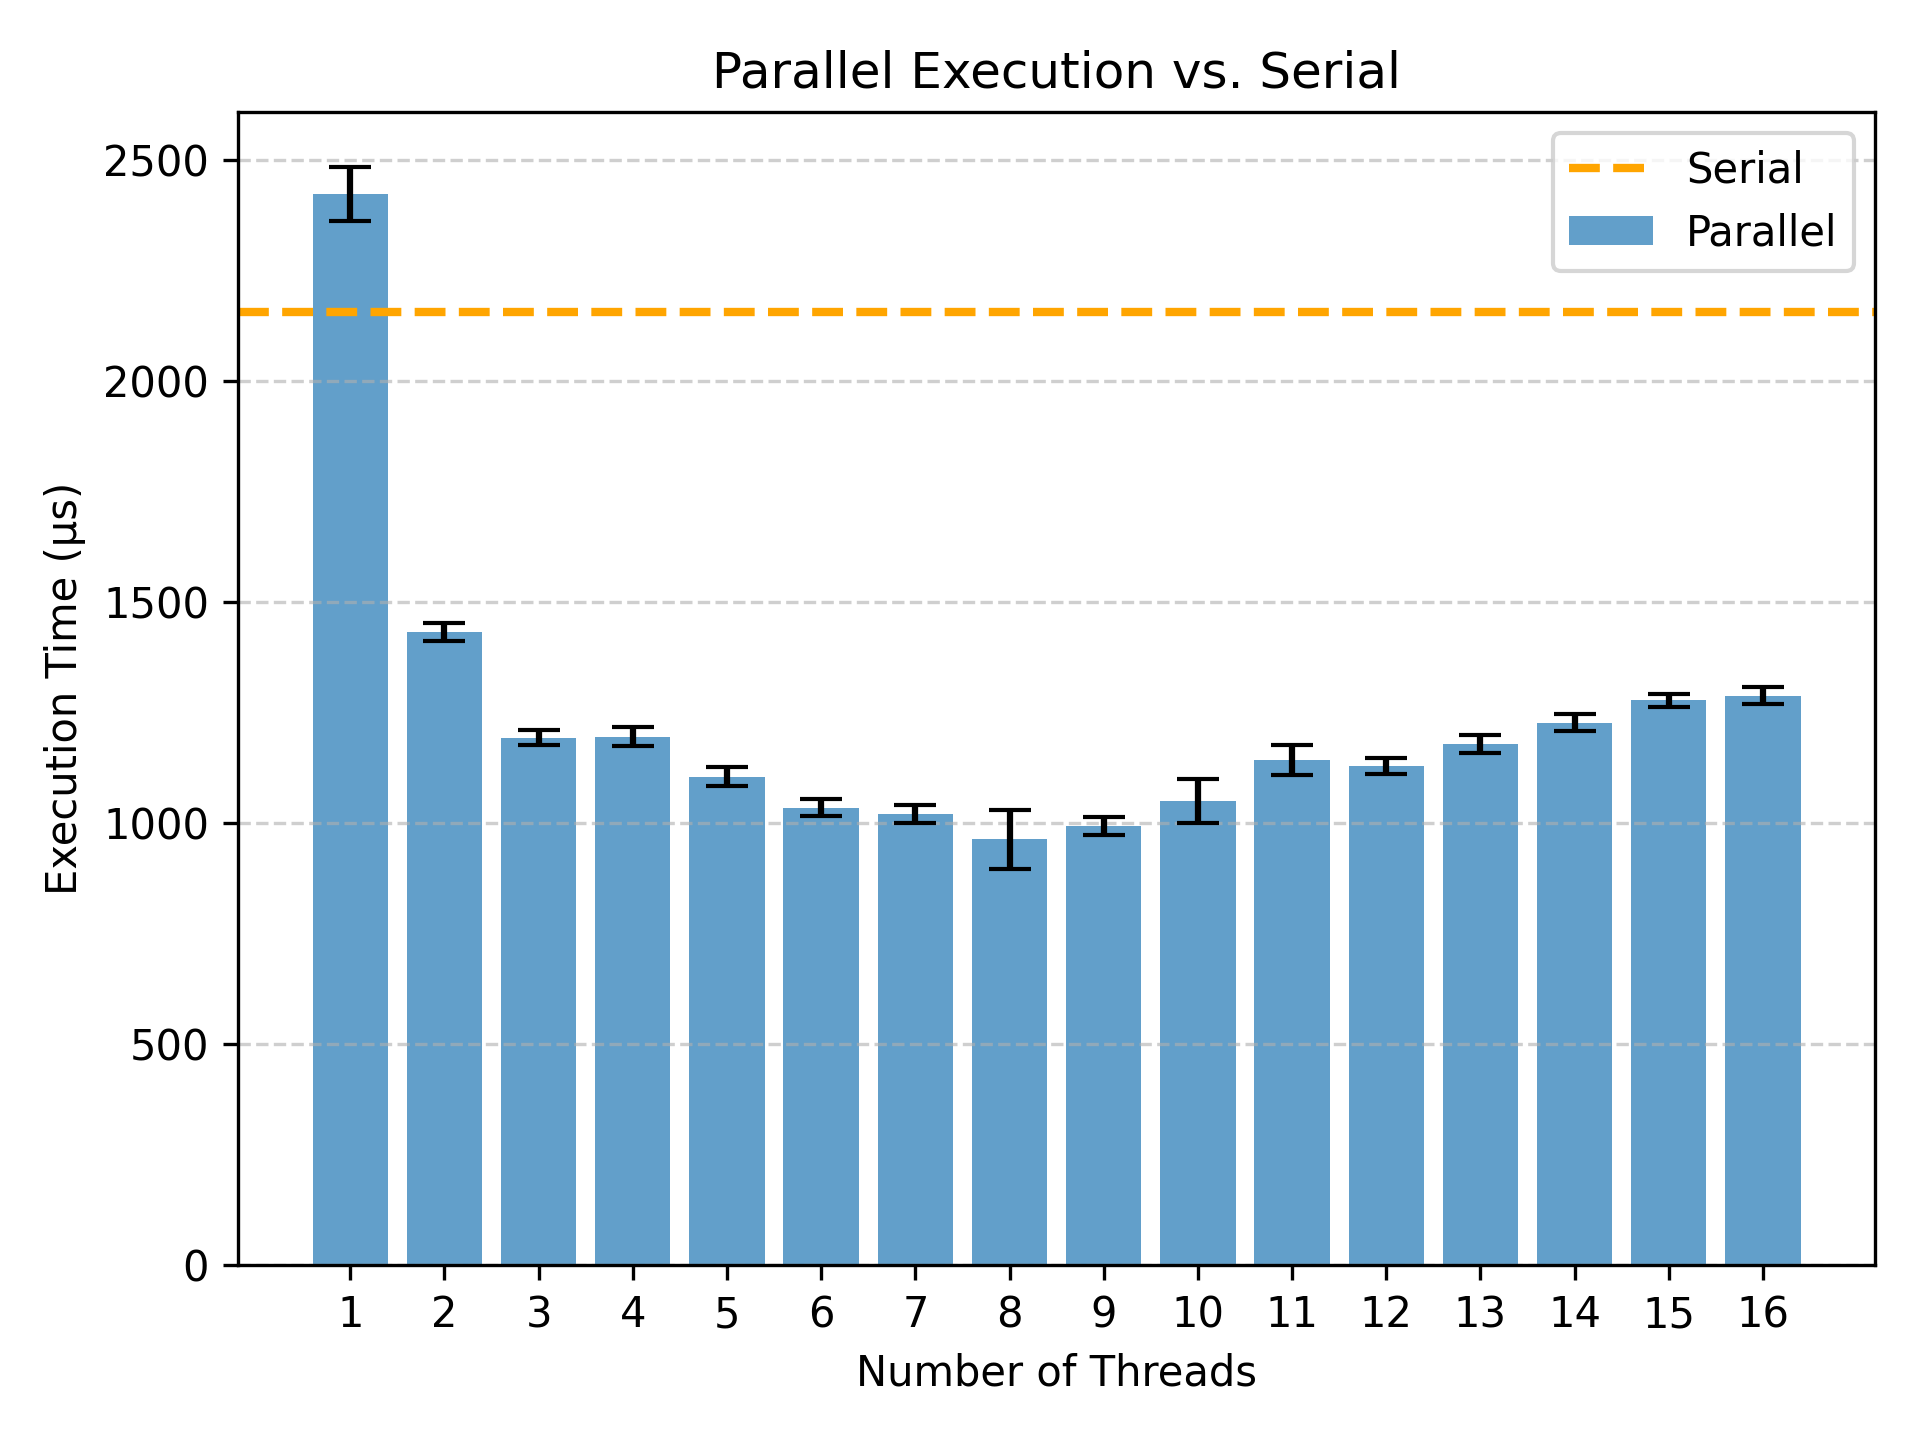
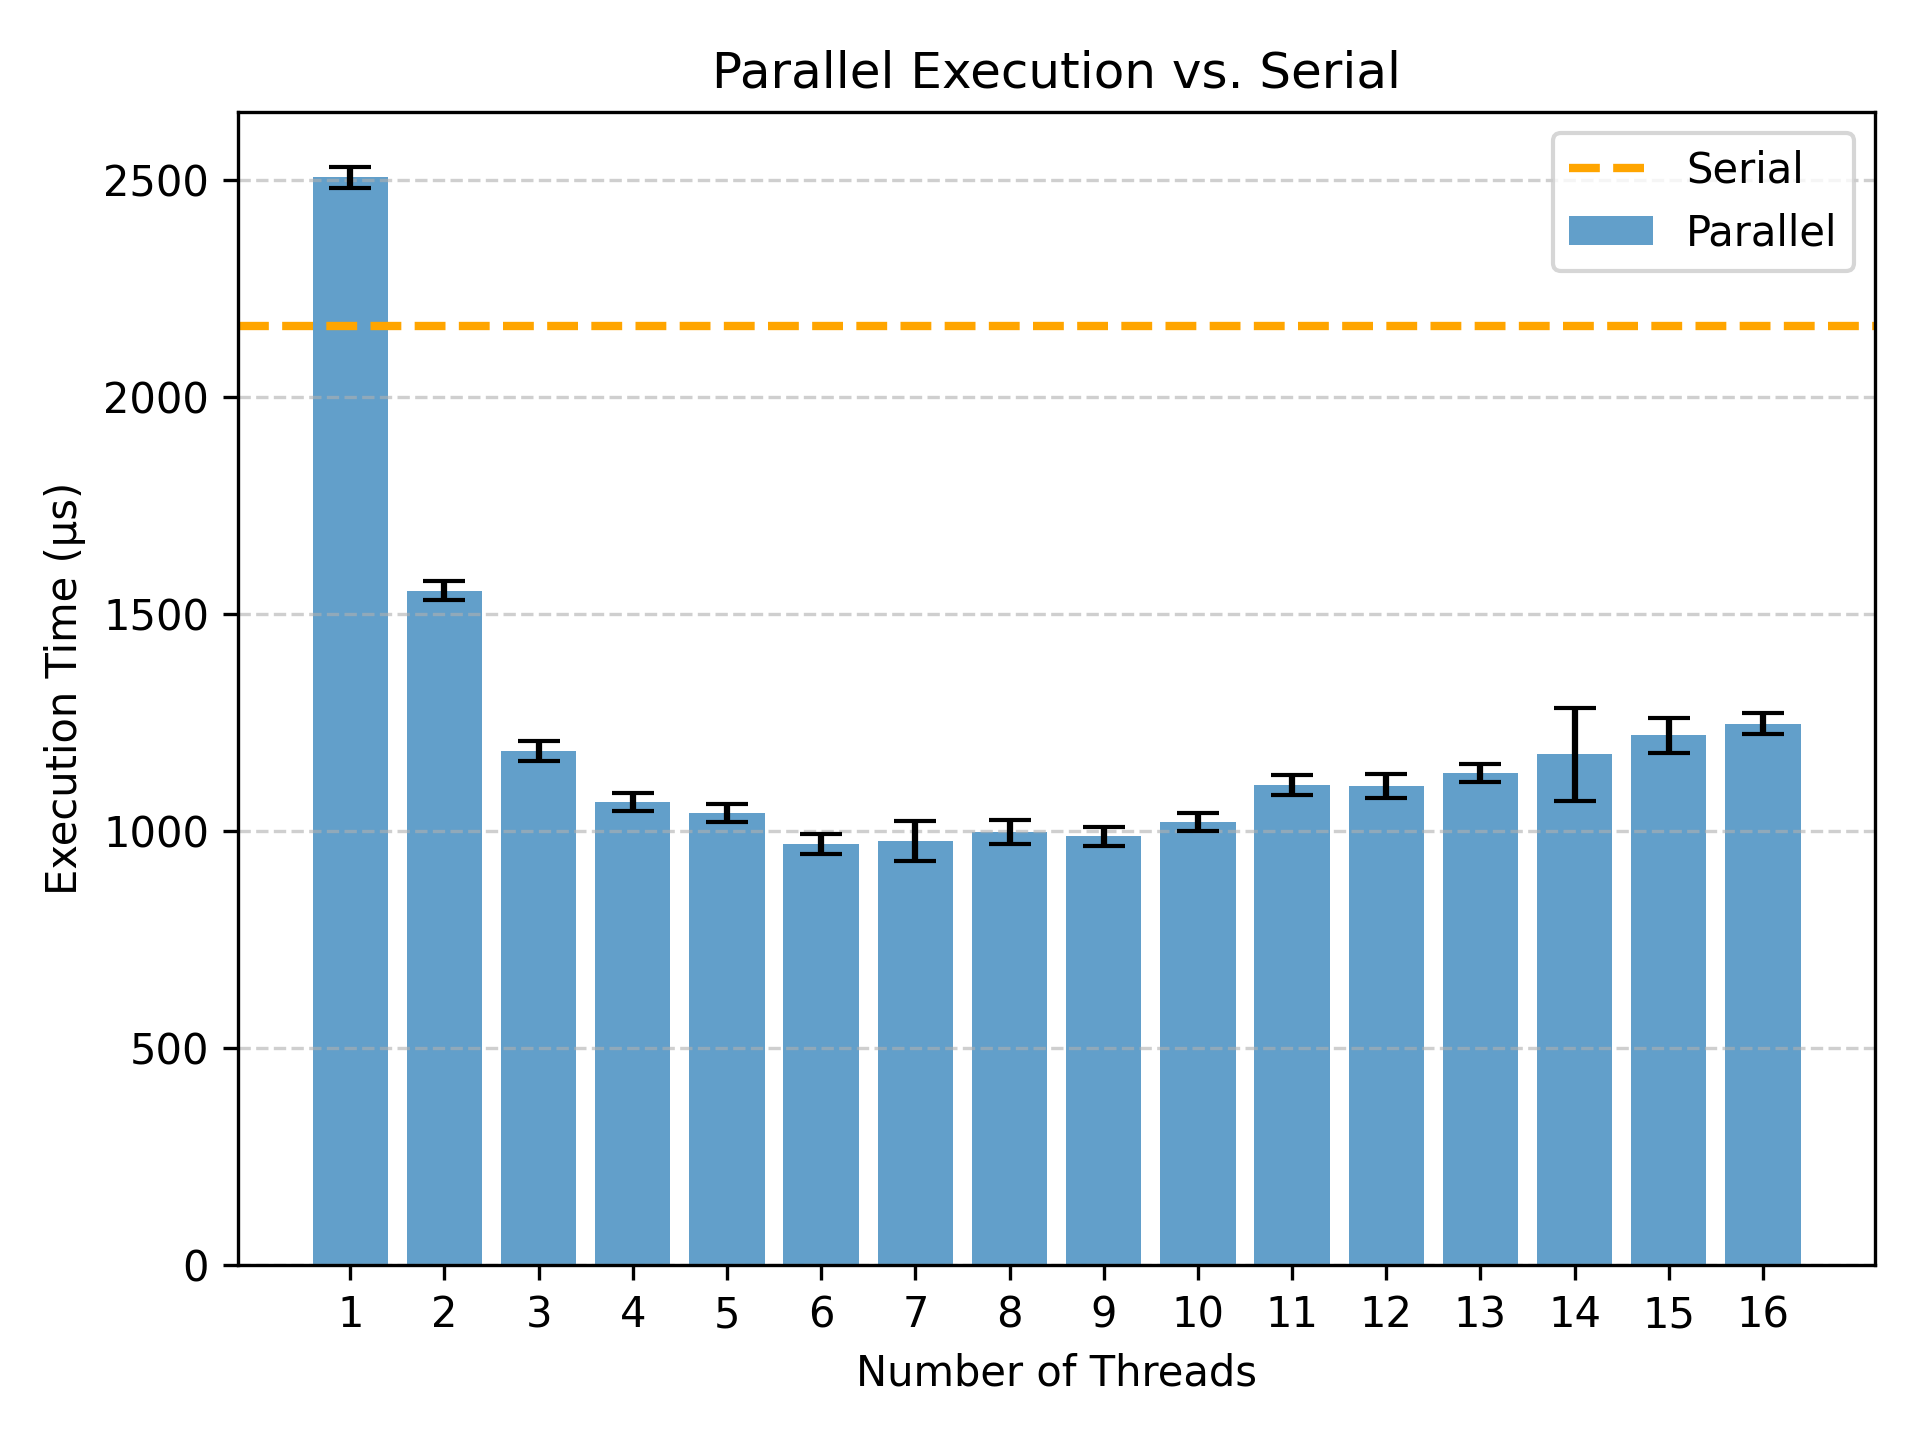
use array of floats for q3

diff --git a/assignment_2/report/sections/02_chapter.tex b/assignment_2/report/sections/02_chapter.tex
@@ -17,13 +17,13 @@ Write a C program to use a group of threads to parallelize the sum of an array.
 
 \subsection*{Solution}
 
-To parallelize the summing of the array, we first generate the array and compute the serial sum. The array is filled with random doubles in range $[0, 1]$ using \lstinline{rand()}:
+To parallelize the summing of the array, we first generate the array and compute the serial sum. The array is filled with random floats in range $[0, 1]$ using \lstinline{rand()}:
 
 \begin{cppcode}{q3.c - Initialization and serial summing of array}
 srand(time(NULL));
 for (int i = 0; i < ARR_SIZE; i++)
 {
-    arr[i] = (double)rand() / (double)(RAND_MAX);
+    arr[i] = (float)rand() / (float)(RAND_MAX);
 }
 
 double sum_serial = 0.0;
@@ -33,7 +33,7 @@ for (int i = 0; i < ARR_SIZE; i++)
 }
 \end{cppcode}
 
-For parallelization, each thread computes a partial sum of a slice of the array. To pass information to the threads we defined a small struct:
+For parallelization, each thread computes a partial sum of a slice of the array. All sums are stored in doubles to improve precision. To pass information to the threads we defined a small struct:
 
 \begin{cppcode}{q3.c - Struct for thread arguments}
 typedef struct{
@@ -41,8 +41,6 @@ typedef struct{
     double *partial_sums;
 } thread_arg_t;
 \end{cppcode}
-
-where
 
 \begin{itemize}
     \item \textbf{thread\_id}: Thread identifier. Used to compute it's corresponding chunk of the array.
@@ -102,23 +100,23 @@ By storing each threads partial sum in the array, we don't need to use mutex loc
 
 \begin{textcode}{> ./q3 8}
 --- Master Sum ---
-Serial sum:   500131.289269,    Serial time: 2197 us
+Serial sum:   500320.812500,    Serial time: 2224 us
 
 --- Threads ---
-Thread 0 sum = 62493.302477
-Thread 1 sum = 62537.609934
-Thread 3 sum = 62536.972809
-Thread 2 sum = 62594.181343
-Thread 4 sum = 62512.408019
-Thread 5 sum = 62783.233108
-Thread 6 sum = 62187.400245
-Thread 7 sum = 62486.181335
+Thread 0 sum = 62695.894531
+Thread 1 sum = 62552.230469
+Thread 2 sum = 62480.328125
+Thread 3 sum = 62469.359375
+Thread 4 sum = 62528.675781
+Thread 5 sum = 62318.031250
+Thread 6 sum = 62521.257812
+Thread 7 sum = 62764.535156
 
 --- Thread Sum ---
-Parallel Sum: 500131.289269,    Parallel time: 1065 us
+Parallel Sum: 500330.312500,    Parallel time: 1038 us
 \end{textcode}
 
-To measure the performance of the approach and how it scales with the number of threads, a Python script was created that run the application 100 times for $\text{num\_threads} \in [1, 16]$. The result is shown in \cref{fig:q3_exe}. We see that compared to the simple, serial approach this is some overhead in the creation of threads, as $\text{num\_threads} = 1$ is slightly slower than the baseline. However, as the number of threads is increased we see a performance increase until $\text{num\_threads} > 8$, whereafter the overhead of thread creation diminishes performance. On our system the optimal number of threads is therefore $\text{num\_threads} = 8$.
+To measure the performance of the approach and how it scales with the number of threads, a Python script was created that run the application 100 times for $\text{num\_threads} \in [1, 16]$. The result is shown in \cref{fig:q3_exe}. We see that compared to the simple, serial approach this is some overhead in the creation of threads, as $\text{num\_threads} = 1$ is slightly slower than the baseline. However, as the number of threads is increased we see a performance increase until $\text{num\_threads} > 6$, whereafter the overhead of thread creation diminishes performance. On our system the optimal number of threads is therefore $\text{num\_threads} = 6$.
 
 \newpage
 

diff --git a/assignment_2/applications/src/q3.c b/assignment_2/applications/src/q3.c
@@ -9,7 +9,7 @@
 
 #define ARR_SIZE 1000000
 
-double arr[ARR_SIZE];
+float arr[ARR_SIZE];
 int num_threads;
 
 typedef struct {
@@ -42,7 +42,7 @@ int main(int argc, char *argv[])
     srand(time(NULL));
     for (int i = 0; i < ARR_SIZE; i++)
     {
-        arr[i] = (double)rand() / (double)(RAND_MAX);
+        arr[i] = (float)rand() / (float)(RAND_MAX);
     }
 
     /* === Start timer === */
